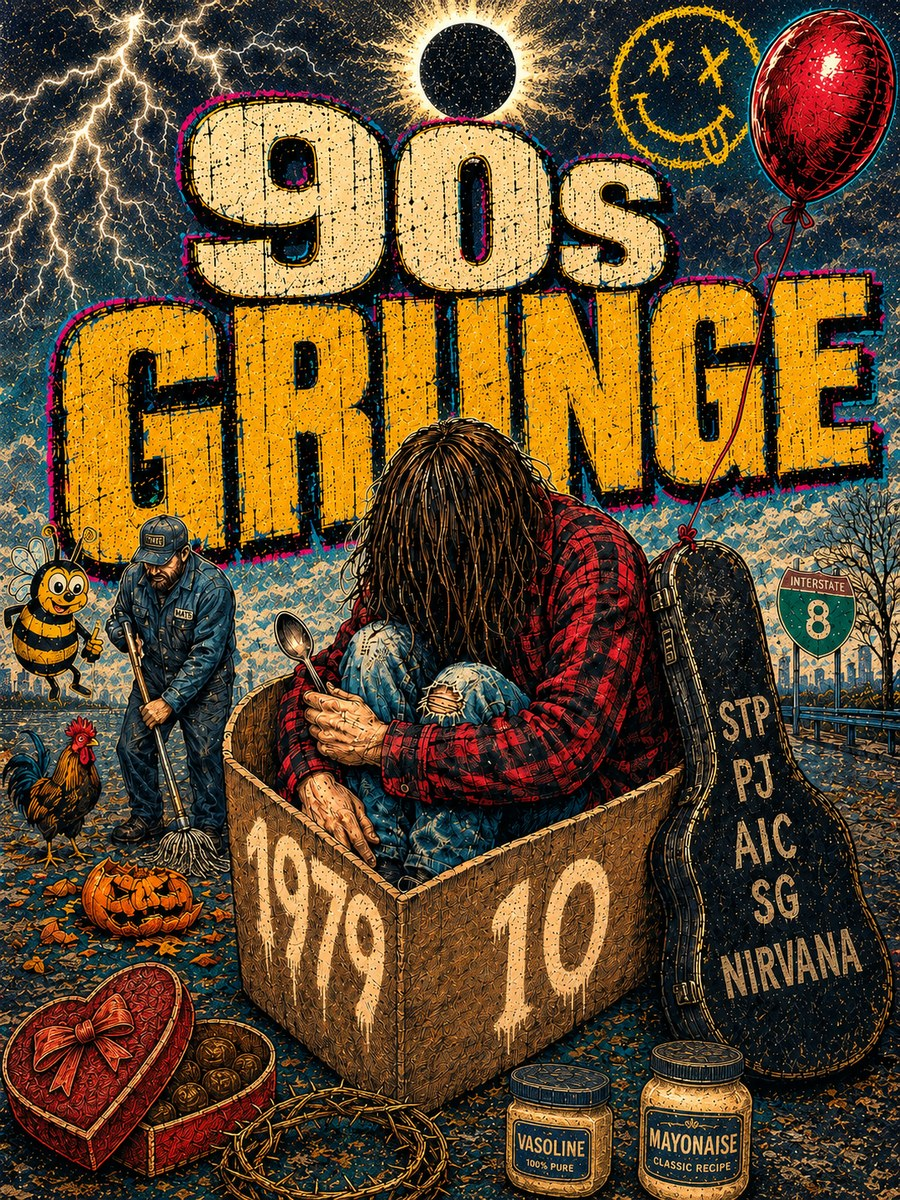
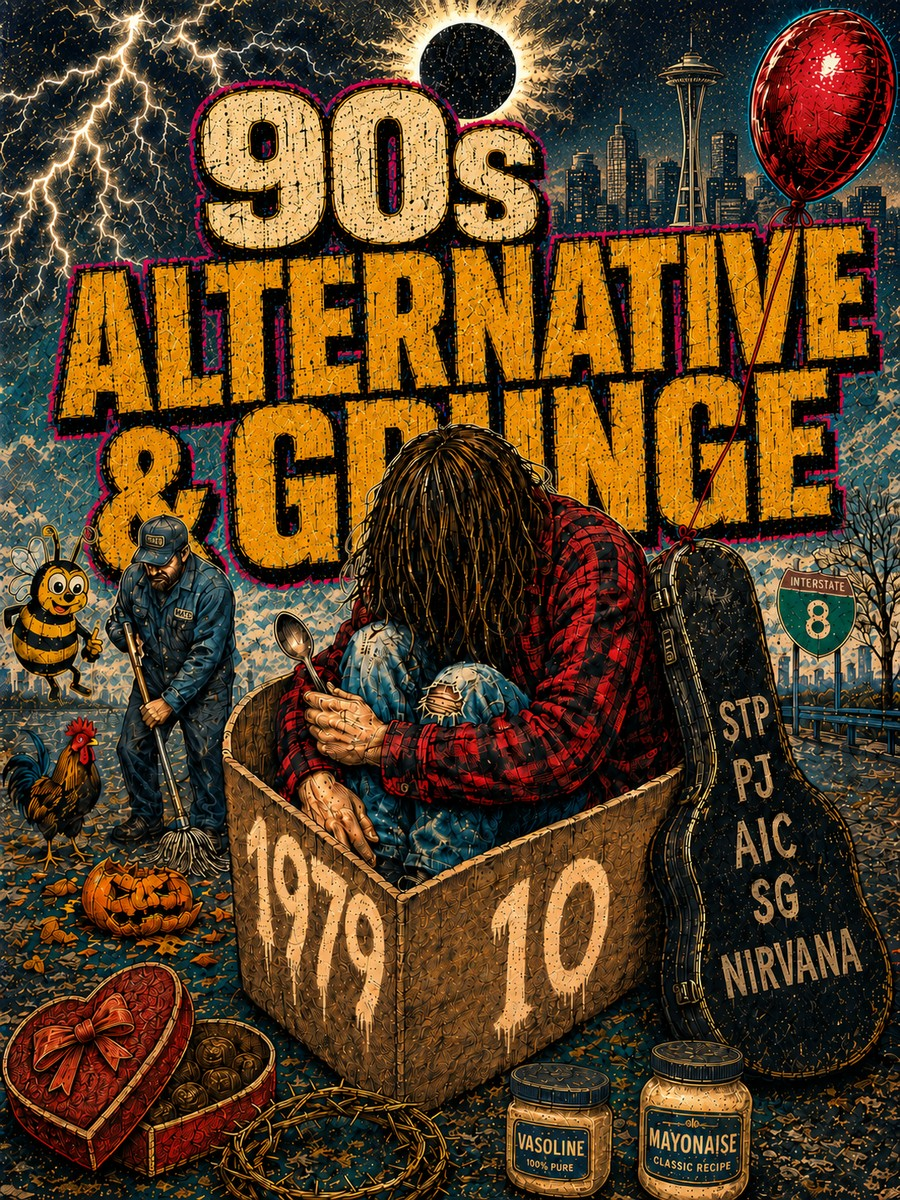
v253: the Nirvana smiley is gone - the audit's last real finding is closed
90S ALTERNATIVE & GRUNGE. The smiley - yellow, X eyes, tongue out - was a
registered mark sitting on a GENRE poster, so there was not even a nominative
argument for it: the vault is not about Nirvana. It is replaced by the Seattle
skyline and the Space Needle, which is a better answer than the swap I was going
to propose. It says the same thing about where this music came from, and it says
it with a place instead of somebody's trademark. Title also grows to match the
vault name.

Everything else on that poster stays and it is the house style working properly -
every object is a song or album title: 1979 and 10 on the box, the bee, the
rooster, the pumpkin, the heart-shaped box, Vasoline, Mayonaise, Interstate 8,
the eclipse, and STP / PJ / AIC / SG / NIRVANA lettered on the case, which is the
honest way to name the bands.

SUPERHERO MOVIES. The domino mask on the ledge is gone, replaced with graffiti
reading THIS CITY NEEDS A HERO - original writing, not a quote. The caped figure
was already clean: seen from behind, no face, no emblem on the chest, plain cape.
Nothing in it points at any particular publisher's character.

Superhero came in at 1085x1450, which is 0.748 rather than 0.750. Trimmed 3px off
the bottom before the resize instead of stretching it - the bottom is quiet
anyway. Worth watching if more arrive off-ratio.

561 KB and 367 KB.

Claude-Session: https://claude.ai/code/session_012avjdYG8yRCMZ3uJswRWwC

diff --git a/index.html b/index.html
@@ -911,7 +911,7 @@ function eraOf(v){ return ERA[v.id]||'neon'; }
    page arrives with ?open=, so the lookup returned '0' and every plate URL was busted
    with ?v=0 forever - an updated plate would never reach anyone who had opened that
    sheet once. Kept in step with the printed build tag by the release step. */
-var SFSBUILD='v252';
+var SFSBUILD='v253';
 var CARDART={"adele":{"o":"#F4A330"},"arianagrande":{"o":"#FFF6E0","l":1},"ate":{"o":"#DAA459"},"beatles":{"o":"#FFF6E0","l":1},"beyonce":{"o":"#FDB728"},"biggie":{"o":"#FDC472"},"billieeilish":{"o":"#B9C709"},"billyjoel":{"o":"#DBB17D"},"bonjovi":{"o":"#FFF6E0","l":1},"bowie":{"o":"#F7AF7C"},"brunomars":{"o":"#FEA928"},"carrieunderwood":{"o":"#D9B87A"},"ccr":{"o":"#F2C772"},"chrisstapleton":{"o":"#F2BA7D"},"codyjohnson":{"o":"#85C9EB"},"coldplay":{"o":"#E9BA87"},"dmb":{"o":"#2A1305"},"dualipa":{"o":"#A3ABC1"},"eagles":{"o":"#261C12"},"edsheeran":{"o":"#ECAB84"},"ellalangley":{"o":"#F1987E"},"eminem":{"o":"#D1B99F"},"faithhill":{"o":"#F3A63D"},"fleetwoodmac":{"o":"#BEC5C8"},"foo":{"o":"#F69F6D"},"fthc":{"o":"#3D3717"},"gratefuldead":{"o":"#FFF6E0","l":1},"greenday":{"o":"#CEB799"},"grunge90s":{"o":"#EFC973"},"harrystyles":{"o":"#F99B37"},"hendrix":{"o":"#FFF6E0","l":1},"jasonaldean":{"o":"#EAAE5F"},"jellyroll":{"o":"#301407"},"justintimberlake":{"o":"#B1C1D3"},"katyperry":{"o":"#3DC2D8"},"kennychesney":{"o":"#F6C587"},"kidstoybox":{"o":"#002848"},"ladygaga":{"o":"#FFBD46"},"laineywilson":{"o":"#FFF6E0","l":1},"ledzeppelin":{"o":"#E6AE57"},"lukebryan":{"o":"#332818"},"lukecombs":{"o":"#F19F31"},"maroon5":{"o":"#642F09"},"metallica":{"o":"#EABE95"},"morganwallen":{"o":"#DB9D94"},"mv_action":{"o":"#F0AD51"},"mv_animated":{"o":"#FFF6E0","l":1},"mv_comedy":{"o":"#FFF6E0","l":1},"mv_crime":{"o":"#F0AF37"},"mv_drama":{"o":"#DCA969"},"mv_fantasy":{"o":"#FAAA41"},"mv_horror":{"o":"#DBC27D"},"mv_romance":{"o":"#FFF6E0","l":1},"mv_scifi":{"o":"#26BDF5"},"mv_sports":{"o":"#FFF6E0","l":1},"mv_superhero":{"o":"#1C1B26"},"mv_war":{"o":"#1F150C"},"nirvana":{"o":"#CACACB"},"oasis":{"o":"#DDBA92"},"onedirection":{"o":"#F4A62D"},"pearljam":{"o":"#FFF6E0","l":1},"postmalone":{"o":"#FBA874"},"queen":{"o":"#F1BE78"},"rhcp":{"o":"#FFF6E0","l":1},"rihanna":{"o":"#BBAB97"},"selenagomez":{"o":"#FFF6E0","l":1},"shaboozey":{"o":"#DEB177"},"smashingpumpkins":{"o":"#BCAEC2"},"springsteen":{"o":"#E6A59C"},"stones":{"o":"#FFF6E0","l":1},"stp":{"o":"#FFF6E0","l":1},"summerbeach":{"o":"#FFF6E0","l":1},"taylorswift":{"o":"#D4A26D"},"thewho":{"o":"#F0C382"},"timmcgraw":{"o":"#251C0A"},"tompetty":{"o":"#FFF6E0","l":1},"tv_binge":{"o":"#D9B87A"},"tv_cartoon":{"o":"#171F6C"},"tv_gameshow":{"o":"#000B4D"},"tv_growingup":{"o":"#86B6F7"},"tv_oldschool":{"o":"#D9B87A"},"tv_scifi":{"o":"#66BBF7"},"tv_sitcom":{"o":"#C8AE93"},"u2":{"o":"#7EC0F2"},"zachbryan":{"o":"#191F15"}};
 function coverHTML(v,label){
  var e=eraOf(v);
@@ -1489,4 +1489,4 @@ brandBarState();
  setTimeout(go, 1500);
 })();
 </script>
-<div id="buildtag">v252</div><style>#buildtag{position:fixed;left:5px;bottom:3px;z-index:99999;font:700 9px/1 system-ui,sans-serif;color:rgba(255,255,255,.30);pointer-events:none;letter-spacing:.5px}</style></body></html>
+<div id="buildtag">v253</div><style>#buildtag{position:fixed;left:5px;bottom:3px;z-index:99999;font:700 9px/1 system-ui,sans-serif;color:rgba(255,255,255,.30);pointer-events:none;letter-spacing:.5px}</style></body></html>

diff --git a/sw.js b/sw.js
@@ -1,4 +1,4 @@
-var CACHE='sfs-v252';
+var CACHE='sfs-v253';
 /* IMPORTANT: do NOT precache the HTML documents. If the app shell is cached, an installed PWA
    can launch straight from cache and bypass Cloudflare Access. Keeping only static assets here
    forces every page launch to hit the network, so the Access login is always enforced. */
